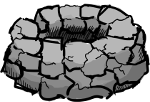
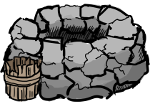
Added well bucket, slight dustiness in dunes with Joe, random tweak.

Changed region(s): [[0.0, 0.5294, 0.2933, 1.0]]

diff --git a/src/main/java/com/platymuus/ggj15/game/World.java b/src/main/java/com/platymuus/ggj15/game/World.java
@@ -13,6 +13,8 @@ import java.util.*;
  */
 public class World implements Drawable {
 
+    public final Random random = new Random();
+
     public final List<Entity> entities = new LinkedList<>();
     private final List<Entity> removeEntities = new LinkedList<>();
 
@@ -30,6 +32,8 @@ public class World implements Drawable {
     public int sand; // sand on screen level
 
     public World() {
+        Entity.world = this;
+
         entities.add(player);
         entities.add(new Obelisk());
 
@@ -55,9 +59,6 @@ public class World implements Drawable {
     }
 
     public void update() {
-        for (Entity entity : entities) {
-            entity.world = this;
-        }
         for (Entity entity : new ArrayList<>(entities)) {
             entity.update();
         }
@@ -73,7 +74,6 @@ public class World implements Drawable {
         List<Entity> local = new ArrayList<>(entities);
         Collections.sort(local, EntityComparator.instance);
         for (Entity entity : local) {
-            entity.world = this;
             entity.draw(target, states);
         }
     }
@@ -121,6 +121,10 @@ public class World implements Drawable {
         } while (ty > 0);
 
         entity.location = new Vector2f(entity.location.x + sx * tx, entity.location.y + sy * ty);
+    }
+
+    public float randomDistrib(float distrib) {
+        return random.nextFloat() * 2 * distrib - distrib;
     }
 
     private static class EntityComparator implements Comparator<Entity> {

diff --git a/src/main/java/com/platymuus/ggj15/game/ObeliskRune.java b/src/main/java/com/platymuus/ggj15/game/ObeliskRune.java
@@ -4,7 +4,6 @@ import com.platymuus.ggj15.Resources;
 import com.platymuus.jsc.BoundsHandler;
 import org.jsfml.graphics.FloatRect;
 import org.jsfml.graphics.Sprite;
-import org.jsfml.system.Vector2f;
 import org.jsfml.system.Vector2i;
 
 /**
@@ -18,7 +17,6 @@ public class ObeliskRune extends Interactable {
 
     public ObeliskRune(String name) {
         this.name = name;
-        location = new Vector2f(random(), random());
 
         sprite = Resources.getSprite("game/heiro-" + name + ".png");
         BoundsHandler.of(sprite).position(0.5f, 1);
@@ -26,11 +24,6 @@ public class ObeliskRune extends Interactable {
 
         Vector2i size = sprite.getTexture().getSize();
         collision = new FloatRect(-size.x / 2, -size.y * 3 / 4, size.x, size.y * 3 / 4);
-    }
-
-    private float random() {
-        int DISTRIB = 500;
-        return (float) (Math.random() * 2 * DISTRIB) - DISTRIB;
     }
 
     @Override

diff --git a/src/main/java/com/platymuus/ggj15/game/Dunes.java b/src/main/java/com/platymuus/ggj15/game/Dunes.java
@@ -35,9 +35,15 @@ public class Dunes extends Entity {
             }
         }
         FloatRect modified = Hacks.translateRect(myRect, location);
-        if (modified.intersection(Hacks.translateRect(world.getPlayer().collision, world.getPlayer().location)) != null && !successJ) {
-            if (++world.sand >= 200) {
-                world.fate = "a dusty";
+        if (modified.intersection(Hacks.translateRect(world.getPlayer().collision, world.getPlayer().location)) != null) {
+            if (successJ) {
+                if (world.sand < 30) {
+                    ++world.sand;
+                }
+            } else {
+                if (++world.sand >= 200) {
+                    world.fate = "a dusty";
+                }
             }
         } else {
             if (world.sand > 128) {

diff --git a/src/main/java/com/platymuus/ggj15/game/Rock.java b/src/main/java/com/platymuus/ggj15/game/Rock.java
@@ -34,8 +34,7 @@ public class Rock extends Entity {
             location = new Vector2f(random(), random());
         } while (Hacks.dist(location) < 700);
 
-        int random = (int) (Math.random() * NAMES.length);
-        Sprite sprite = Resources.getSprite("game/" + NAMES[random] + ".png");
+        Sprite sprite = Resources.getSprite("game/" + NAMES[world.random.nextInt(NAMES.length)] + ".png");
         BoundsHandler.of(sprite).position(0.5f, 1);
         drawable = sprite;
 
@@ -45,7 +44,6 @@ public class Rock extends Entity {
     }
 
     private float random() {
-        int DISTRIB = 6000;
-        return (float) (Math.random() * 2 * DISTRIB) - DISTRIB;
+        return world.randomDistrib(6000);
     }
 }

diff --git a/src/main/java/com/platymuus/ggj15/game/Entity.java b/src/main/java/com/platymuus/ggj15/game/Entity.java
@@ -13,7 +13,7 @@ import org.jsfml.system.Vector2f;
 public class Entity implements Drawable {
 
     public Vector2f location = Vector2f.ZERO;
-    protected World world;
+    protected static World world;
     protected Drawable drawable;
 
     public FloatRect collision;

diff --git a/src/main/java/com/platymuus/ggj15/game/FollowerDropOff.java b/src/main/java/com/platymuus/ggj15/game/FollowerDropOff.java
@@ -18,8 +18,7 @@ public class FollowerDropOff extends Interactable {
     }
 
     private float random() {
-        int DISTRIB = 500;
-        return (float) (Math.random() * 2 * DISTRIB) - DISTRIB;
+        return world.randomDistrib(500);
     }
 
     @Override

diff --git a/src/main/java/com/platymuus/ggj15/game/StaticFollower.java b/src/main/java/com/platymuus/ggj15/game/StaticFollower.java
@@ -12,8 +12,7 @@ public class StaticFollower extends Interactable {
     }
 
     private float random() {
-        int DISTRIB = 500;
-        return (float) (Math.random() * 2 * DISTRIB) - DISTRIB;
+        return world.randomDistrib(500);
     }
 
     @Override

diff --git a/src/main/java/com/platymuus/ggj15/game/Boat.java b/src/main/java/com/platymuus/ggj15/game/Boat.java
@@ -19,8 +19,7 @@ public class Boat extends Interactable {
     }
 
     private float random() {
-        int DISTRIB = 500;
-        return (float) (Math.random() * 2 * DISTRIB) - DISTRIB;
+        return world.randomDistrib(500);
     }
 
     @Override

diff --git a/src/main/java/com/platymuus/ggj15/game/Clue.java b/src/main/java/com/platymuus/ggj15/game/Clue.java
@@ -20,8 +20,7 @@ public class Clue extends Interactable {
     }
 
     private float random() {
-        int DISTRIB = 500;
-        return (float) (Math.random() * 2 * DISTRIB) - DISTRIB;
+        return world.randomDistrib(500);
     }
 
     @Override

diff --git a/src/main/java/com/platymuus/ggj15/game/Well.java b/src/main/java/com/platymuus/ggj15/game/Well.java
@@ -21,8 +21,7 @@ public class Well extends Interactable {
     }
 
     private float random() {
-        int DISTRIB = 500;
-        return (float) (Math.random() * 2 * DISTRIB) - DISTRIB;
+        return world.randomDistrib(500);
     }
 
     @Override
